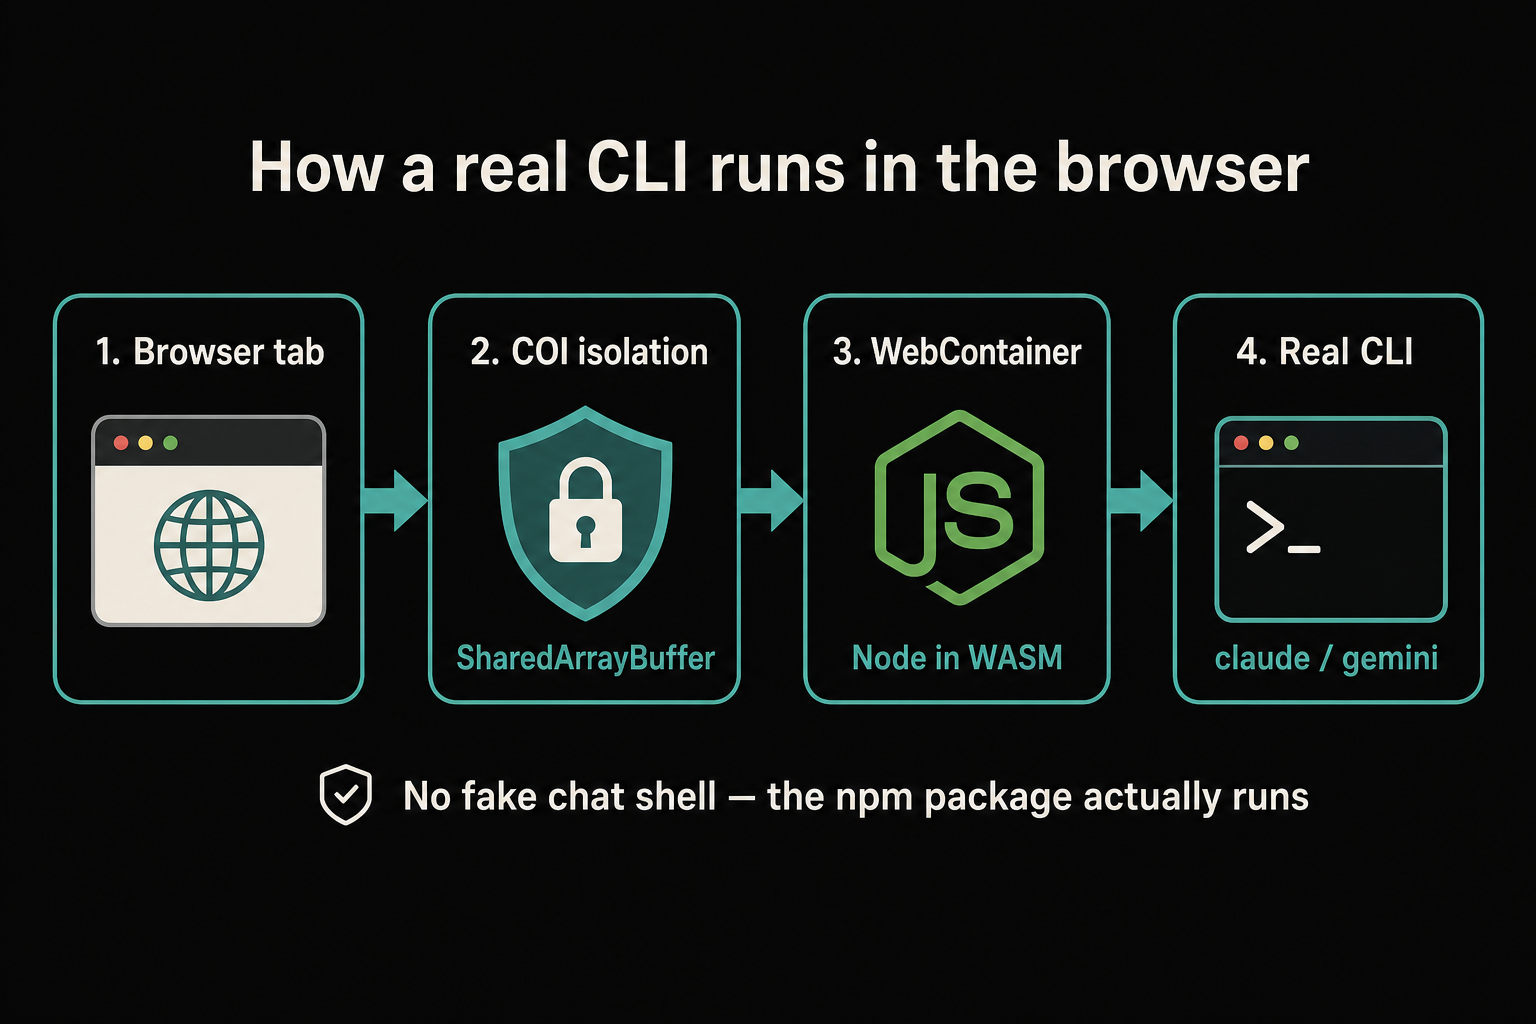
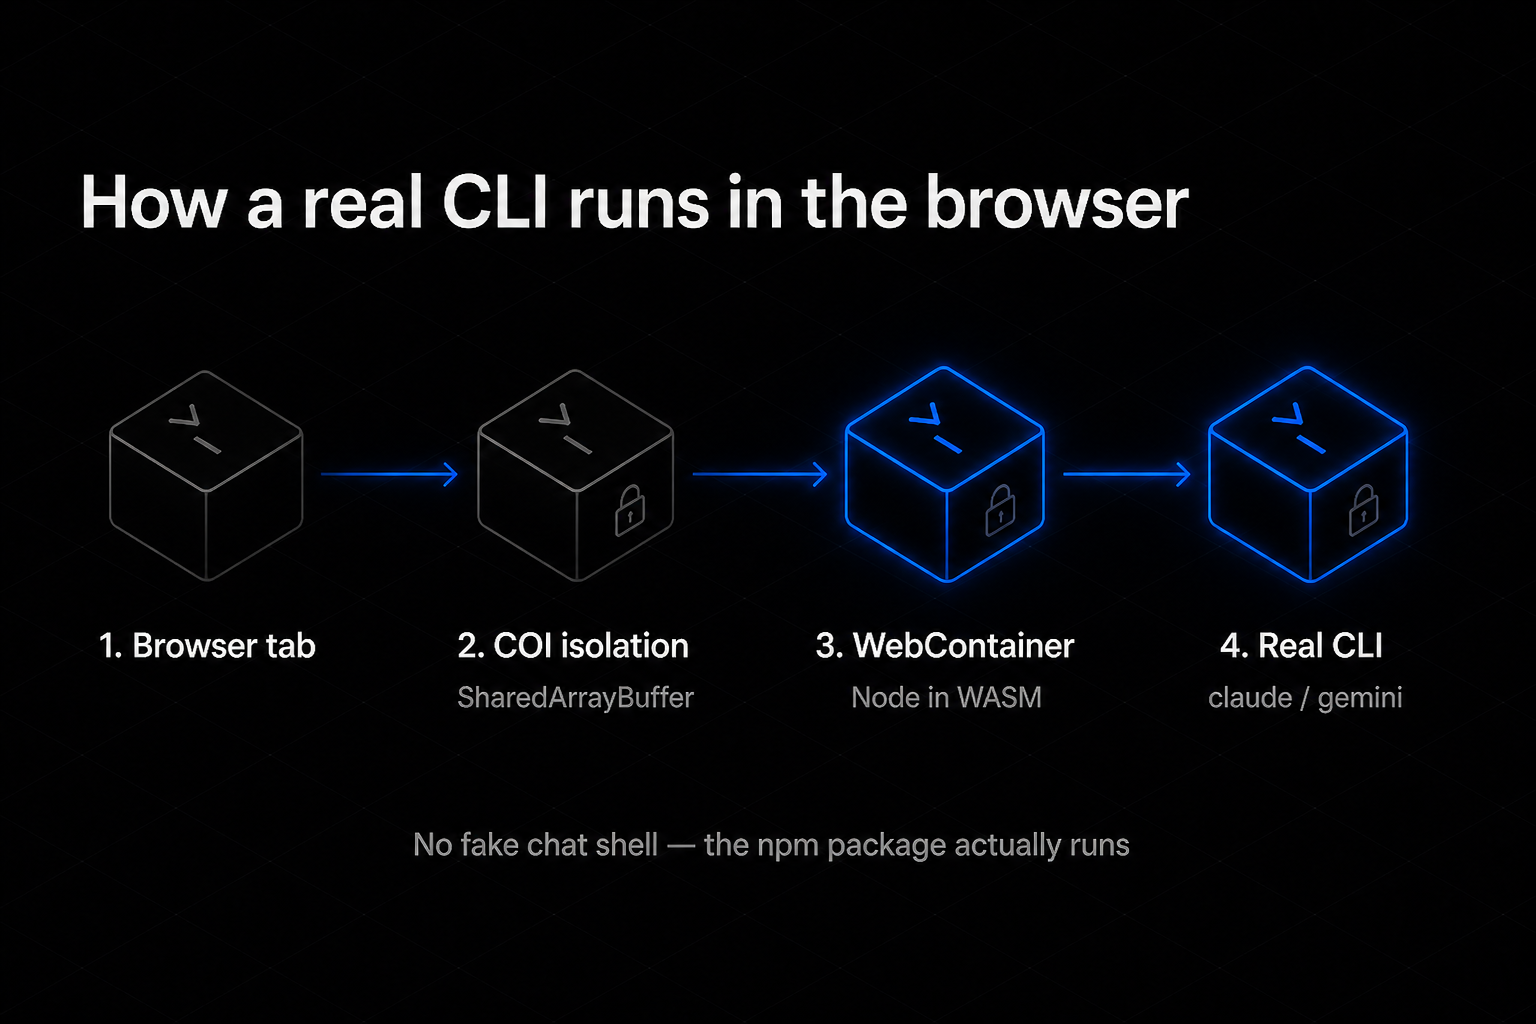
docs(devlog): restyle diagrams to match public/og.png brand
Regenerate architecture, boot-sequence, and fake-vs-real drawings with the
OG card as GenerateImage reference: near-black isometric grid, neon blue
glow cubes, >_ / padlock motifs. Update the release-devlog skill house style
so future releases stay on-brand.

Changed region(s): [[0.0312, 0.2812, 0.9688, 0.7188], [0.0312, 0.125, 0.8438, 0.2188], [0.1875, 0.75, 0.8438, 0.8438]]

diff --git a/.cursor/skills/release-devlog/SKILL.md b/.cursor/skills/release-devlog/SKILL.md
@@ -77,37 +77,58 @@ Use Cursor's built-in **`GenerateImage`** tool (`cursor` namespace).
 
 ### House style (every diagram)
 
-- **Aspect ratio:** `16:9`
-- **Look:** flat vector, educational poster, white or very light background
-- **Layout:** rounded boxes, soft shadows, labeled arrows, short labels inside boxes
-- **Title:** one clear title at the top
-- **Typography:** legible sans-serif; no tiny unreadable text
-- **Forbidden:** privacy / "local" / "never leaves your device" reassurance copy,
-  fake UI chrome, watermarks, photorealistic clutter
+Match **`public/og.png`** — the product social card. Pass it as
+`reference_image_paths: ["/workspace/public/og.png"]` (or the repo-relative
+path when not on Cloud) on every `GenerateImage` call.
+
+| Token | Value |
+| --- | --- |
+| Background | Near-black `#0a0a0a` with a faint isometric grid |
+| Accent | Neon electric blue `#0070f3` / `#3291ff` with soft glow |
+| Primary text | White `#ededed` |
+| Secondary text | Muted gray `#a1a1a1` |
+| Motif | Isometric wireframe cubes; `>_` on the top face; padlock on a side face |
+| Active vs quiet | Active steps: blue stroke + glow. Quiet steps: thin dark-gray wireframe |
+| Typography | Geometric sans-serif (Geist / Inter-like) |
+| Aspect ratio | `16:9` (closest GenerateImage ratio to the OG’s 1536×1024) |
+
+- **Layout:** isometric cubes + thin neon-blue arrows; short labels under each stage
+- **Title:** one clear white title at the top
+- **Forbidden:** white/cream backgrounds; teal/cyan/lime accent palettes;
+  colorful flat icon cards; privacy / "local" / "never leaves your device"
+  reassurance copy; fake UI chrome; watermarks; photorealistic clutter
+
+Also see `design.md` / `app/globals.css` for the same dark token set.
 
 ### Standard set (pick 2–4)
 
 | Filename | Purpose |
 | --- | --- |
-| `devlog-<topic>-overview.png` | End-to-end architecture (boxes + arrows) |
+| `devlog-<topic>-overview.png` | End-to-end architecture (cubes + arrows) |
 | `devlog-<topic>-sequence.png` | Numbered boot or request flow |
-| `devlog-<topic>-before-after.png` | Side-by-side or top/bottom comparison |
+| `devlog-<topic>-before-after.png` | Side-by-side: dim gray cubes vs glowing blue cubes |
 | `devlog-<topic>-detail.png` | Optional zoom on one tricky subsystem |
 
 ### Prompt skeleton
 
 ```
-Generate a 16:9 flat vector technical diagram for a developer blog.
-White background, rounded rectangles, soft shadows, labeled arrows, title at top.
-No privacy or "runs locally" marketing text.
+Generate a 16:9 technical diagram for clientside-containers.
+Match the attached brand OG image exactly in visual language.
+
+BRAND: near-black #0a0a0a background, subtle isometric grid,
+neon electric blue #0070f3 glow accents, white #ededed titles,
+gray #a1a1a1 captions, geometric sans-serif.
+Motif: isometric wireframe cubes with >_ prompts and padlocks.
+Active = blue glow; quiet = dark-gray wireframe.
+No teal/lime/white background. No privacy marketing.
 
 Title: "<Title>"
 
 Show:
-1. <box A> → <box B> → …
-2. <key labels and short annotations>
+1. <stage A> → <stage B> → …
+2. <short captions>
 
-Style: clean educational poster, high contrast, readable labels.
+Pass reference_image_paths: public/og.png
 ```
 
 ### Save into the repo
